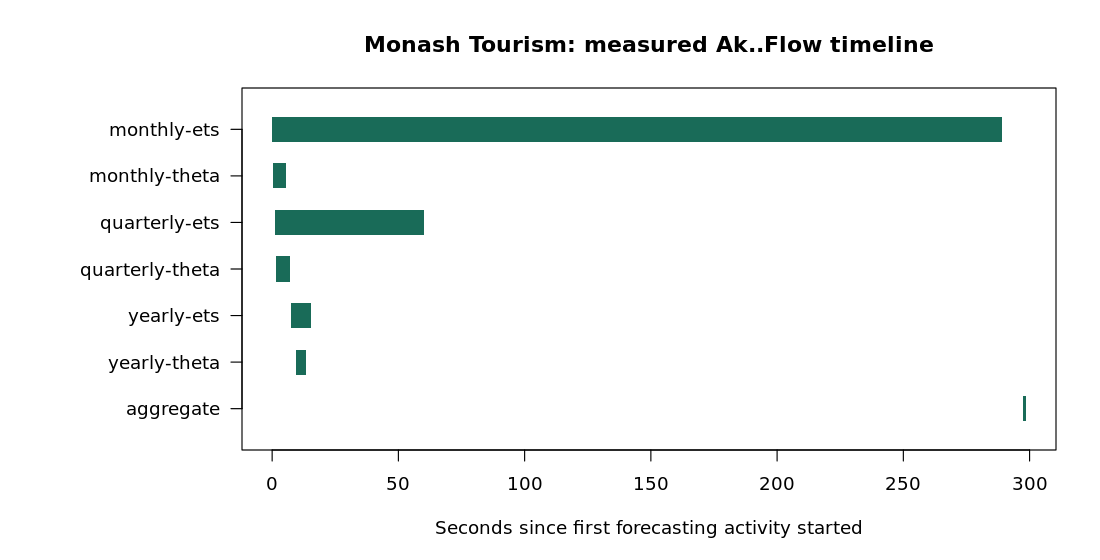
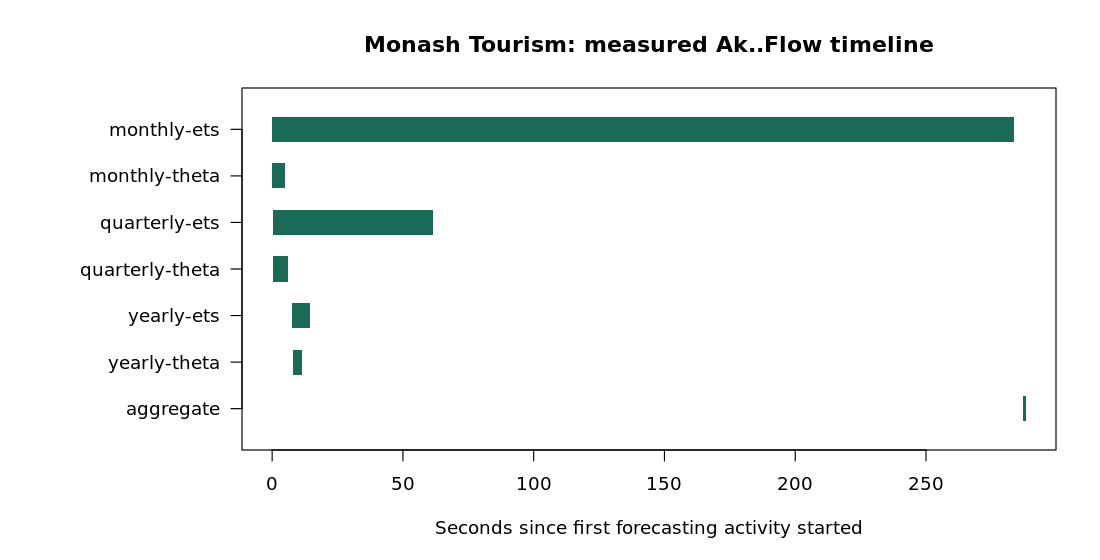
Record compact Monash recipe and validated execution

diff --git a/time-series/monash-tourism/README.md b/time-series/monash-tourism/README.md
@@ -41,8 +41,9 @@ forecast 8.20, with a seasonal naïve fallback on model errors.
 
 ## Run
 
-The portable workflow embeds the pinned Debian base recipe, scripts, and
-checksum-verified archives. Build locally with
+The portable workflow embeds the pinned Debian base recipe and scripts.
+The image build downloads the archives from an immutable repository revision
+and verifies their published checksums before the model runs. Build locally with
 `docker build -f docker/Dockerfile -t community-monash-tourism:v1 .`.
 Run `./run.sh` to preflight, then use `AKOFLOW_SUBMIT=1 ./run.sh` to execute.
 
@@ -51,11 +52,11 @@ and error CSVs, and validation report.
 
 ## Recorded execution and gallery
 
-The seven activities in run `community-monash-run-v2` completed and the
+The seven activities in run `community-monash-run-v3` completed and the
 validator passed. All six scores agreed with the published benchmark within
 0.005 MASE. ETS scored lower at monthly and quarterly frequencies, and Theta
 scored lower at yearly frequency. All 1,311 series were scored for each model.
-The monthly and quarterly ETS activities overlapped for 58.914 seconds.
+The monthly and quarterly ETS activities overlapped for 61.270 seconds.
 
 ![Observed MASE by model and frequency](outputs/tourism-mase.png)
 
